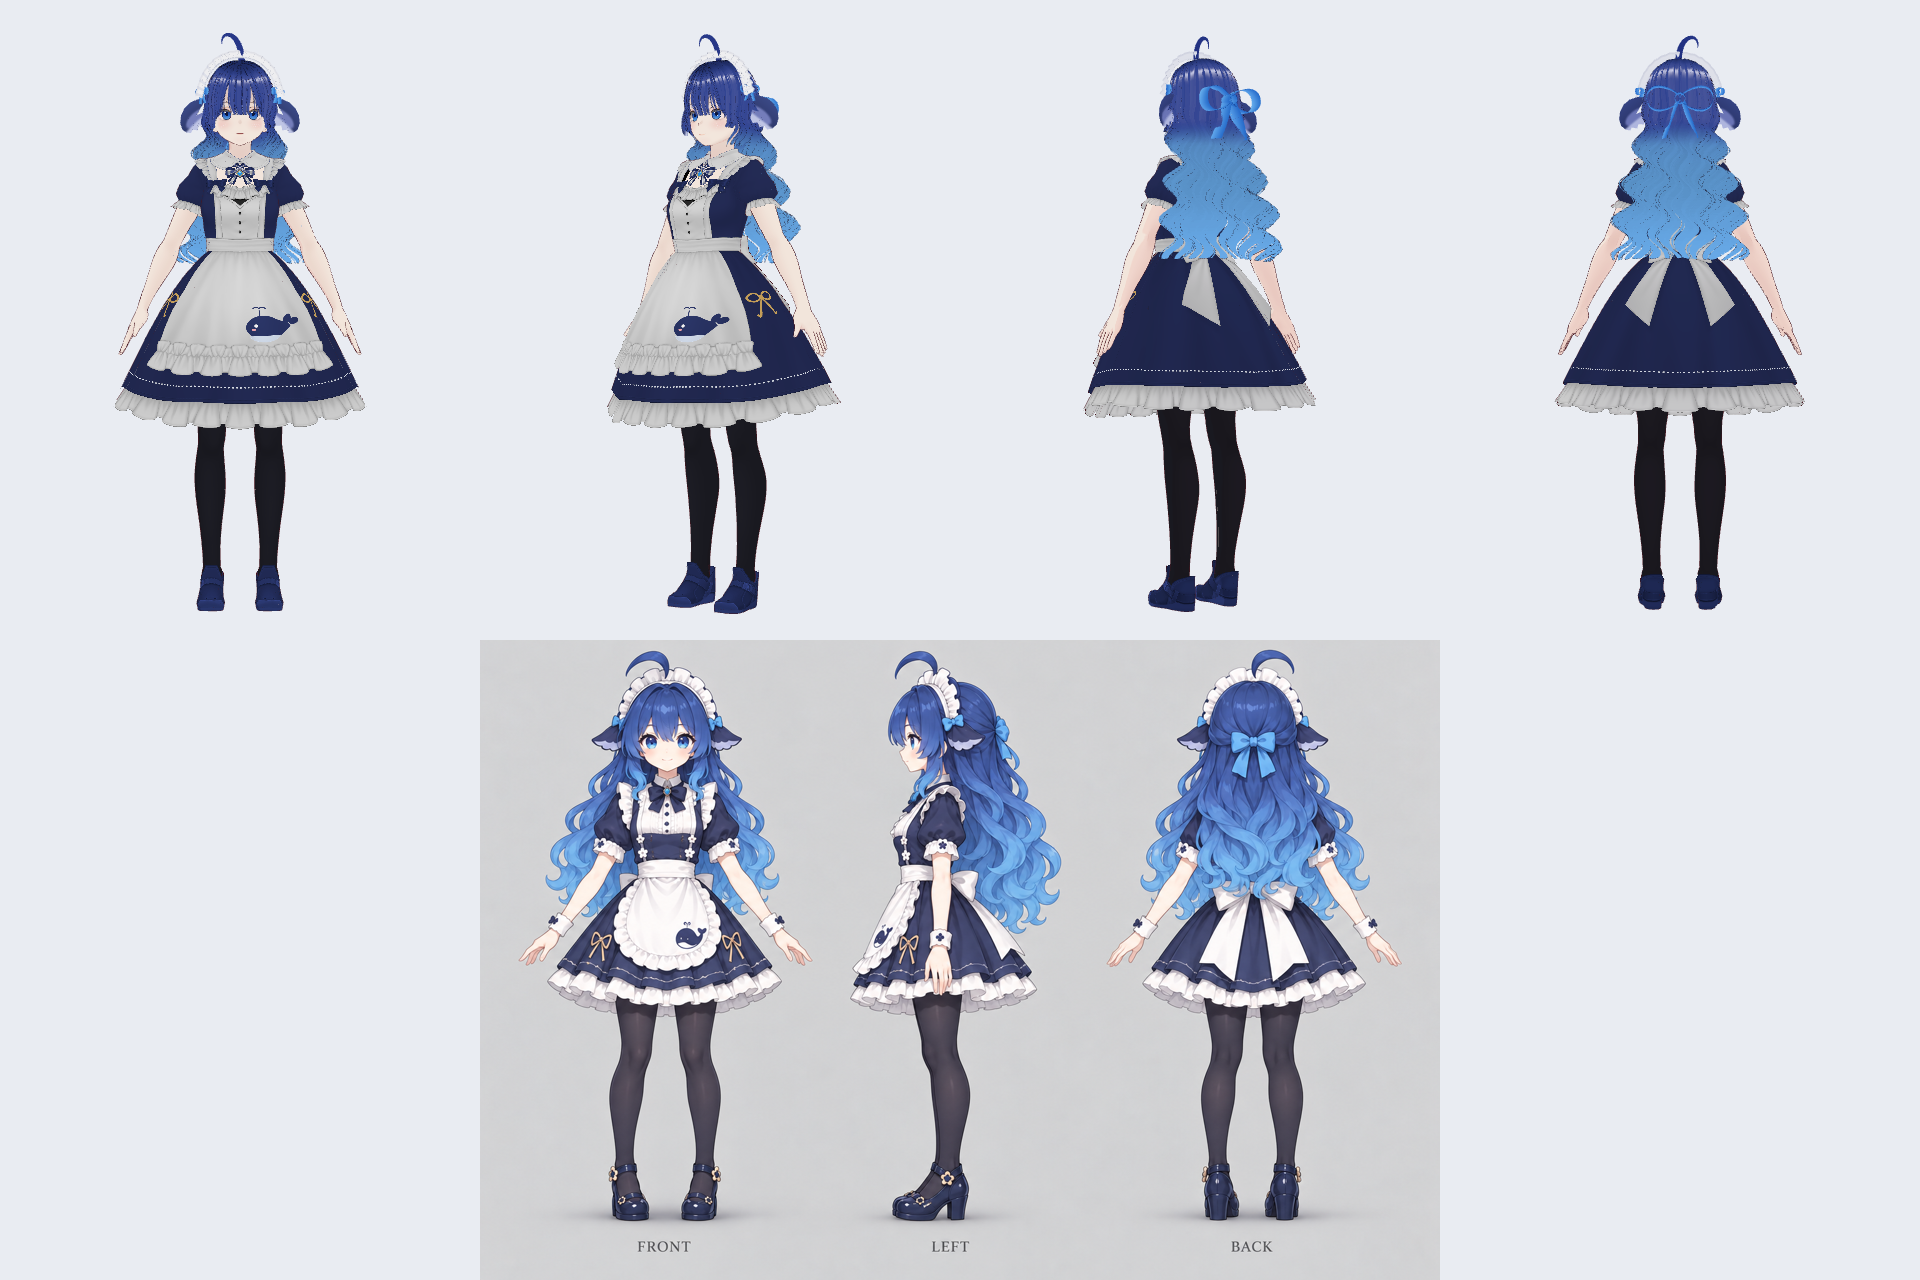
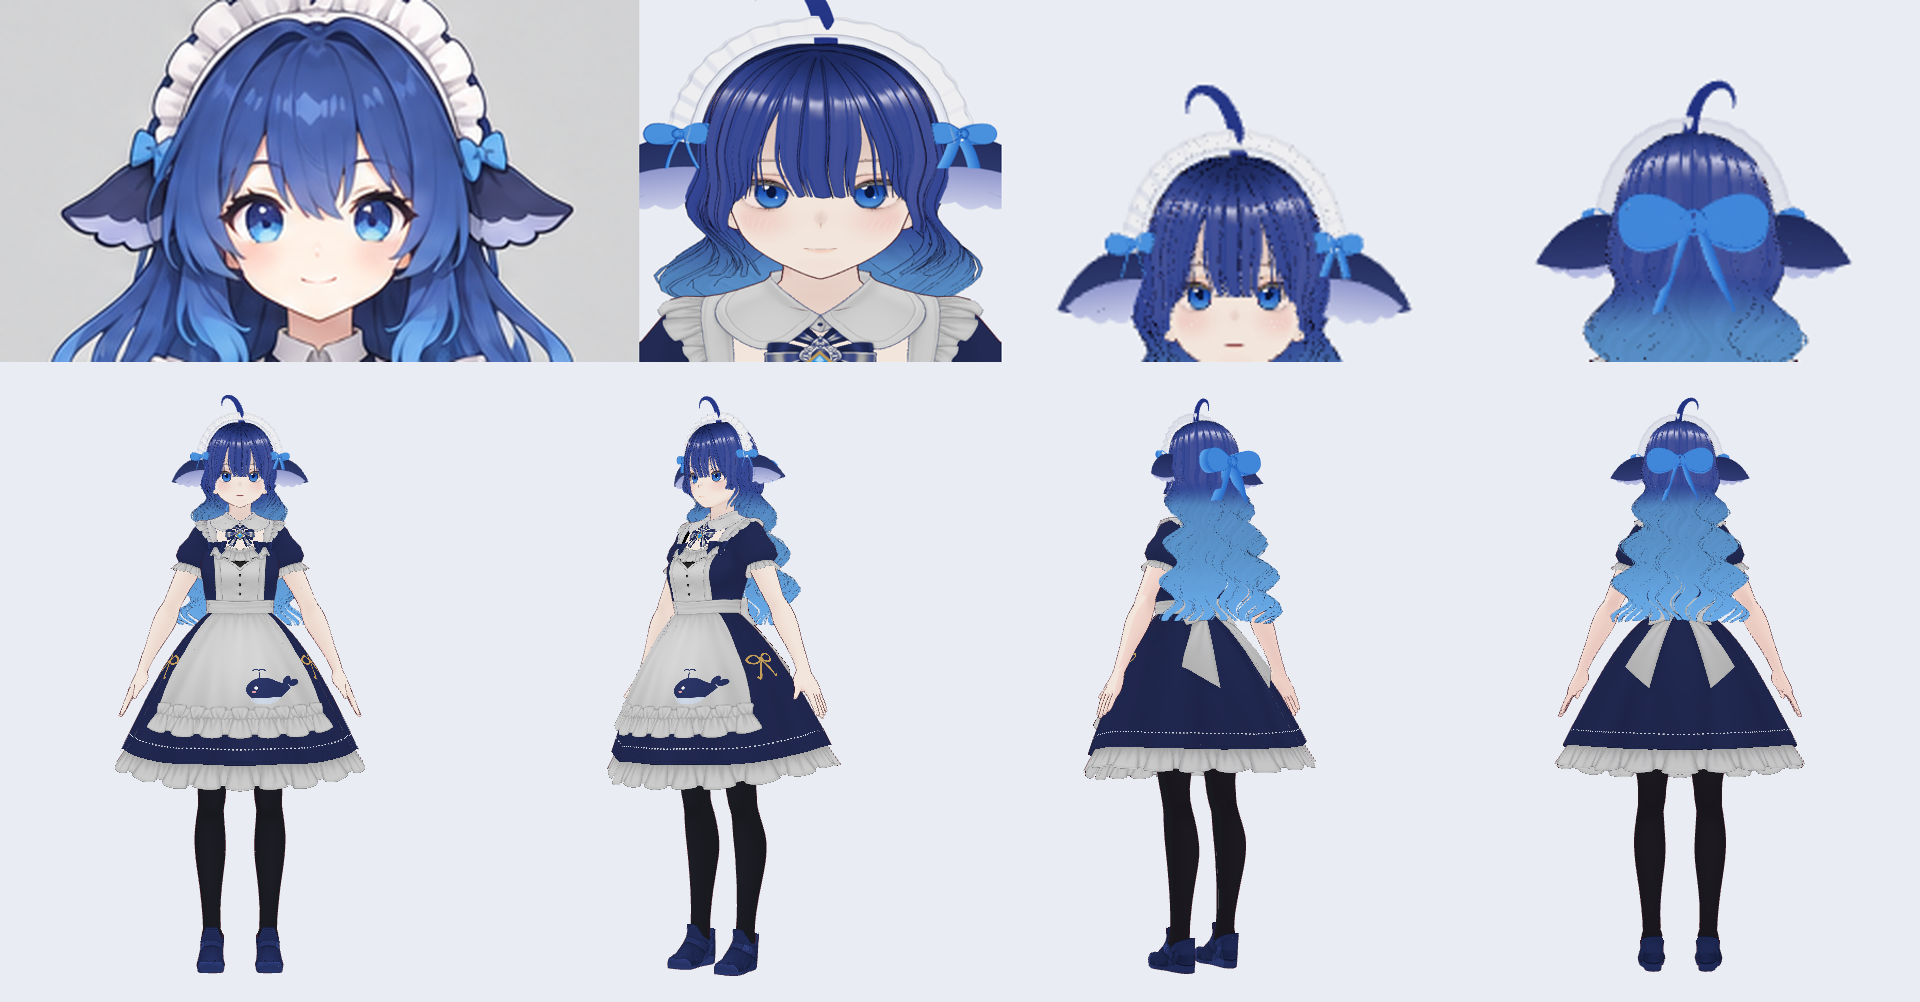
3D v8b：耳鳍改成双层（深蓝外壳+浅紫云朵边）横向下垂软耳；侧蝴蝶结挪到头饰两端；蝴蝶结圈填实
Claude-Session: https://claude.ai/code/session_01D5WJSRXgXAfHDdjnRY6KvW

diff --git a/tools/vrm3d/add_fins.py b/tools/vrm3d/add_fins.py
@@ -16,60 +16,59 @@ def add_acc(arr, typ, comp=5126, target=34962):
     a = {'bufferView':bv,'componentType':comp,'count':int(arr.shape[0]),'type':typ}
     if typ == 'VEC3': a['min'] = arr.min(0).tolist(); a['max'] = arr.max(0).tolist()
     j['accessors'].append(a); return len(j['accessors'])-1
-# ---- geometry (fin local: +x outward, +y up, +z forward)
-S = 1.15
-outline = [(0,0.014),(0.016,0.026),(0.034,0.032),(0.052,0.031),(0.068,0.024),(0.080,0.012),(0.085,-0.002),(0.082,-0.014),
-           (0.074,-0.022),(0.066,-0.019),(0.058,-0.028),(0.049,-0.022),(0.040,-0.030),(0.031,-0.024),(0.022,-0.030),(0.012,-0.022),(0.004,-0.024),(0,-0.014)]
-P = np.array(outline, np.float32)*S; c = np.array([0.038,-0.002], np.float32)*S
-pts2 = np.vstack([c[None], P])
-# subdivide fan once (midpoints) for a smoother cup
-verts=[]; tris=[]
-n=len(P)
-ring=[]
-for i in range(n):
-    ring.append(len(verts)); verts.append(P[i])
-mid=[]
-for i in range(n):
-    mid.append(len(verts)); verts.append((P[i]+c)/2)
-ci=len(verts); verts.append(c)
-for i in range(n-1):
-    a,b=ring[i],ring[i+1]; ma,mb=mid[i],mid[i+1]
-    tris += [(a,b,mb),(a,mb,ma),(ma,mb,ci)]
-V2=np.array(verts,np.float32)
-z = 0.008*np.sin(np.pi*np.clip(V2[:,0]/(0.085*S),0,1)) - 0.007*((V2[:,1]/(0.031*S))**2)
-pos=np.c_[V2[:,0],V2[:,1],z].astype(np.float32)
-uv=np.c_[V2[:,0]/(0.086*S), 1-(V2[:,1]+0.031*S)/(0.064*S)].astype(np.float32)
-idx=np.array(tris,np.uint16).reshape(-1)
-# normals
-nrm=np.zeros_like(pos)
-for t in np.array(tris):
-    p0,p1,p2=pos[t]; fn=np.cross(p1-p0,p2-p0); nrm[t]+=fn
-nrm/=np.linalg.norm(nrm,axis=1,keepdims=True)+1e-9
-# ---- texture
-W,H=256,256; im=Image.new('RGBA',(W,H),(43,53,102,255)); dr=ImageDraw.Draw(im)
-for y in range(H):
-    t=y/H; col=(int(43+20*(1-t)),int(53+25*(1-t)),int(102+40*(1-t)),255); dr.line([(0,y),(W,y)],fill=col)
-# inner lighter lobe + scalloped lavender underside
-dr.ellipse([W*0.15,H*0.42,W*0.85,H*0.82],fill=(122,132,196,255))
-dr.rectangle([0,H*0.72,W,H],fill=(200,206,240,255))
-im=im.filter(ImageFilter.GaussianBlur(6))
-buf=io.BytesIO(); im.save(buf,'PNG')
-ibv=add_view(buf.getvalue()); j['images'].append({'name':'Seeko_EarFin','mimeType':'image/png','bufferView':ibv})
-j.setdefault('samplers',[]).append({'magFilter':9729,'minFilter':9987,'wrapS':33071,'wrapT':33071})
-j['textures'].append({'sampler':len(j['samplers'])-1,'source':len(j['images'])-1}); tex=len(j['textures'])-1
-# material: clone hair MToon material
-base=next(m for m in j['materials'] if '_Hair_' in m['name'] and 'HairBack' not in m['name'])
-m=copy.deepcopy(base); m['name']='Seeko_EarFin'; m['doubleSided']=True
-m['pbrMetallicRoughness']['baseColorTexture']={'index':tex,'texCoord':0}
-for k in ('normalTexture','emissiveTexture'): m.pop(k,None)
-m['emissiveFactor']=[0,0,0]
-mt=m['extensions']['VRMC_materials_mtoon']; mt['shadeMultiplyTexture']={'index':tex}; mt['shadeColorFactor']=[0.78,0.80,0.92]
-mt['outlineColorFactor']=[0.06,0.07,0.15]
-j['materials'].append(m); mat=len(j['materials'])-1
-prim={'attributes':{'POSITION':add_acc(pos,'VEC3'),'NORMAL':add_acc(nrm,'VEC3'),'TEXCOORD_0':add_acc(uv,'VEC2')},
-      'indices':add_acc(idx.reshape(-1,1).astype(np.uint16),'SCALAR',5123,34963),'material':mat,'mode':4}
-j['accessors'][prim['indices']].pop('min',None)
-j['meshes'].append({'name':'Seeko_EarFin','primitives':[prim]}); mesh=len(j['meshes'])-1
+# ---- geometry (fin local: +x outward, +y up, +z forward). Two layers: dark outer ear + lavender scalloped inner.
+def bez(p0,p1,p2,n):
+    t=np.linspace(0,1,n)[:,None]; return (1-t)**2*p0+2*(1-t)*t*p1+t*t*p2
+def cupped(outline, center, cup, zoff):
+    P=np.asarray(outline,np.float32); c=np.asarray(center,np.float32); n=len(P)
+    V=[*P]+[(p+c)/2 for p in P]+[c]; ci=2*n
+    T=[]
+    for i in range(n):
+        a,b=i,(i+1)%n; ma,mb=n+a,n+b; T+=[(a,b,mb),(a,mb,ma),(ma,mb,ci)]
+    V=np.array(V,np.float32)
+    span=V[:,0].max()+1e-6
+    z=zoff+cup*np.sin(np.pi*np.clip(V[:,0]/span,0,1))*0.6 - cup*((V[:,1]-c[1])/0.03)**2
+    pos=np.c_[V[:,0],V[:,1],z].astype(np.float32)
+    uv=np.c_[V[:,0]/span, 1-(V[:,1]-V[:,1].min())/(np.ptp(V[:,1])+1e-6)].astype(np.float32)
+    nrm=np.zeros_like(pos)
+    for t in T:
+        p0,p1,p2=pos[list(t)]; nrm[list(t)]+=np.cross(p1-p0,p2-p0)
+    nrm/=np.linalg.norm(nrm,axis=1,keepdims=True)+1e-9
+    return pos,nrm,uv,np.array(T,np.uint16).reshape(-1)
+S=1.0
+root_top=np.array([0.0,0.020]); tip=np.array([0.078,-0.016]); root_bot=np.array([0.0,-0.018])
+top=bez(root_top,np.array([0.045,0.034]),tip,22)
+bot=bez(tip,np.array([0.040,-0.030]),root_bot,22)[1:-1]
+outer=[*top,*bot]
+# inner lavender: lower part, scalloped bottom (round bumps)
+it0=np.array([0.004,-0.002]); it1=np.array([0.070,-0.014])
+itop=bez(it0,np.array([0.040,0.006]),it1,14)
+base=bez(it1,np.array([0.040,-0.036]),np.array([0.002,-0.022]),60)
+k=np.arange(len(base)); bump=0.0042*np.abs(np.sin(k/len(base)*np.pi*4.0))
+ibot=base-np.c_[np.zeros(len(base)),bump]
+inner=[*itop,*ibot[1:-1]]
+meshes=[]
+for name,ol,cen,cup,zo,cols in [('outer',outer,(0.034,0.0),0.006,0.0,((38,48,98),(58,70,130))),
+                                ('inner',inner,(0.034,-0.016),0.005,0.0025,((150,158,215),(214,218,245)))]:
+    pos,nrm,uv,idx=cupped(ol,cen,cup,zo)
+    im=Image.new('RGBA',(64,64)); dr=ImageDraw.Draw(im)
+    for y in range(64):
+        t=y/63; dr.line([(0,y),(64,y)],fill=tuple(int(cols[0][q]+(cols[1][q]-cols[0][q])*t) for q in range(3))+(255,))
+    buf=io.BytesIO(); im.save(buf,'PNG')
+    ibv=add_view(buf.getvalue()); j['images'].append({'name':'Seeko_EarFin_'+name,'mimeType':'image/png','bufferView':ibv})
+    j.setdefault('samplers',[]).append({'magFilter':9729,'minFilter':9987,'wrapS':33071,'wrapT':33071})
+    j['textures'].append({'sampler':len(j['samplers'])-1,'source':len(j['images'])-1}); tex=len(j['textures'])-1
+    base_m=next(m for m in j['materials'] if '_Hair_' in m['name'] and 'HairBack' not in m['name'])
+    m=copy.deepcopy(base_m); m['name']='Seeko_EarFin_'+name; m['doubleSided']=True
+    m['pbrMetallicRoughness']['baseColorTexture']={'index':tex,'texCoord':0}
+    for kk in ('normalTexture','emissiveTexture'): m.pop(kk,None)
+    m['emissiveFactor']=[0,0,0]; mt=m['extensions']['VRMC_materials_mtoon']
+    mt['shadeMultiplyTexture']={'index':tex}; mt['shadeColorFactor']=[0.8,0.82,0.94]; mt['outlineColorFactor']=[0.05,0.06,0.15]
+    mt.pop('matcapTexture',None); mt['matcapFactor']=[0,0,0]
+    j['materials'].append(m)
+    meshes.append({'attributes':{'POSITION':add_acc(pos,'VEC3'),'NORMAL':add_acc(nrm,'VEC3'),'TEXCOORD_0':add_acc(uv,'VEC2')},
+                   'indices':add_acc(idx.reshape(-1,1).astype(np.uint16),'SCALAR',5123,34963),'material':len(j['materials'])-1,'mode':4})
+j['meshes'].append({'name':'Seeko_EarFin','primitives':meshes}); mesh=len(j['meshes'])-1
 # ---- attach to head
 head=j['extensions']['VRMC_vrm']['humanoid']['humanBones']['head']['node']
 Wh=world(j,head); inv=np.linalg.inv(Wh)
@@ -80,10 +79,10 @@ def qmul(a,b):
     return np.array([w1*x2+x1*w2+y1*z2-z1*y2, w1*y2-x1*z2+y1*w2+z1*x2, w1*z2+x1*y2-y1*x2+z1*w2, w1*w2-x1*x2-y1*y2-z1*z2])
 EYE_Y=1.2311
 for side in (1,-1):
-    wp=np.array([0.076*side, EYE_Y+0.030, -0.024, 1.0]); lp=(inv@wp)[:3]
-    q=qmul(quat([0,1,0],22*side), quat([0,0,1],-38*side))   # sweep back + droop
+    wp=np.array([0.078*side, EYE_Y+0.022, -0.026, 1.0]); lp=(inv@wp)[:3]
+    q=qmul(qmul(quat([0,1,0],12*side), quat([0,0,1],-6*side)), quat([1,0,0],12))   # sweep back + droop
     node={'name':'Seeko_EarFin_'+('L' if side>0 else 'R'),'mesh':mesh,'translation':lp.tolist(),'rotation':q.tolist()}
-    if side<0: node['scale']=[-1,1,1]
+    node['scale']=[-1.3 if side<0 else 1.3,1.3,1.3]
     j['nodes'].append(node); j['nodes'][head].setdefault('children',[]).append(len(j['nodes'])-1)
 # write
 while len(BIN)%4: BIN.append(0)

diff --git a/tools/vrm3d/add_accessories.py b/tools/vrm3d/add_accessories.py
@@ -110,6 +110,11 @@ def bow(scale=1.0, facing=(0,0,-1), up=(0,1,0)):
         x=s*(Lw/2)*(1-np.cos(t)); y=Hh*np.sin(t)*(0.55+0.45*(1-np.cos(t))/2)
         path=x[:,None]*r+y[:,None]*u - 0.004*scale*np.cos(t)[:,None]*f
         parts.append(ribbon(path,np.tile(f,(48,1)),np.full(48,Wd),closed=True))
+        cen=path.mean(0)
+        for side_off in (-0.5,0.5):                 # fill loop faces so the bow looks solid
+            ring=path+f*Wd*side_off*0.9; c=cen+f*Wd*side_off*0.4
+            P=np.vstack([ring,c[None]]); U=np.c_[np.linspace(0,1,49),np.full(49,0.5)]
+            T=[(i,(i+1)%48,48) for i in range(48)]; parts.append((P,U,T))
     for s in (-1,1):                               # tails
         k=12; tt=np.linspace(0,1,k); x=s*(0.004+0.018*tt)*scale; y=-(0.004+0.05*tt)*scale
         path=x[:,None]*r+y[:,None]*u + 0.004*scale*np.sin(tt*3)[:,None]*f
@@ -122,7 +127,7 @@ def bows():
     img=grad_tex((110,185,250),(45,120,215)); mat=add_mat('Seeko_Bow',add_tex(img),shade=(0.7,0.8,0.95),outline=(0.05,0.12,0.3))
     P,U,T=bow(1.8,facing=(0,0,-1)); by=eyeY+0.025; attach('Seeko_BackBow',add_mesh('Seeko_BackBow',P,U,T,mat),(0,by,surf_back(0,by)-0.006))
     for s in (1,-1):
-        sy=eyeY+0.058; sz=-0.012; P,U,T=bow(0.55,facing=(s*0.85,0.0,0.5)); attach('Seeko_SideBow_'+('L' if s>0 else 'R'),add_mesh('Seeko_SideBow',P,U,T,mat),(s*(surf_side(sy,sz,s)+0.004),sy,sz))
+        ang=math.radians(22 if s>0 else 158); cy=eyeY+0.01; r=(surf_r(0,cy,-0.012,ang) or 0.1)+0.008; P,U,T=bow(0.6,facing=(s*0.45,0.0,0.9)); attach('Seeko_SideBow_'+('L' if s>0 else 'R'),add_mesh('Seeko_SideBow',P,U,T,mat),(r*math.cos(ang),cy+r*math.sin(ang),0.004))
 # ---- 3) ahoge (crescent curl, faces front)
 def ahoge():
     k=40; t=np.linspace(0,1,k)
